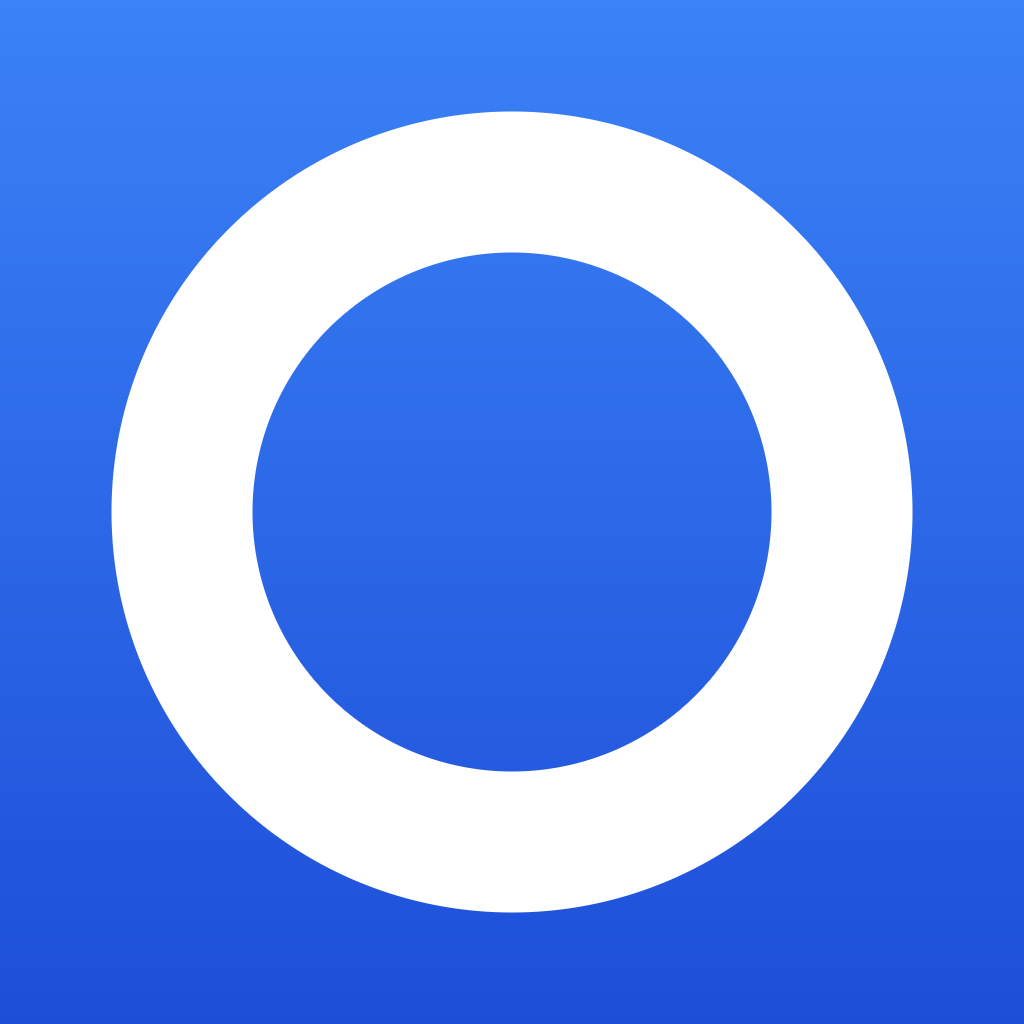
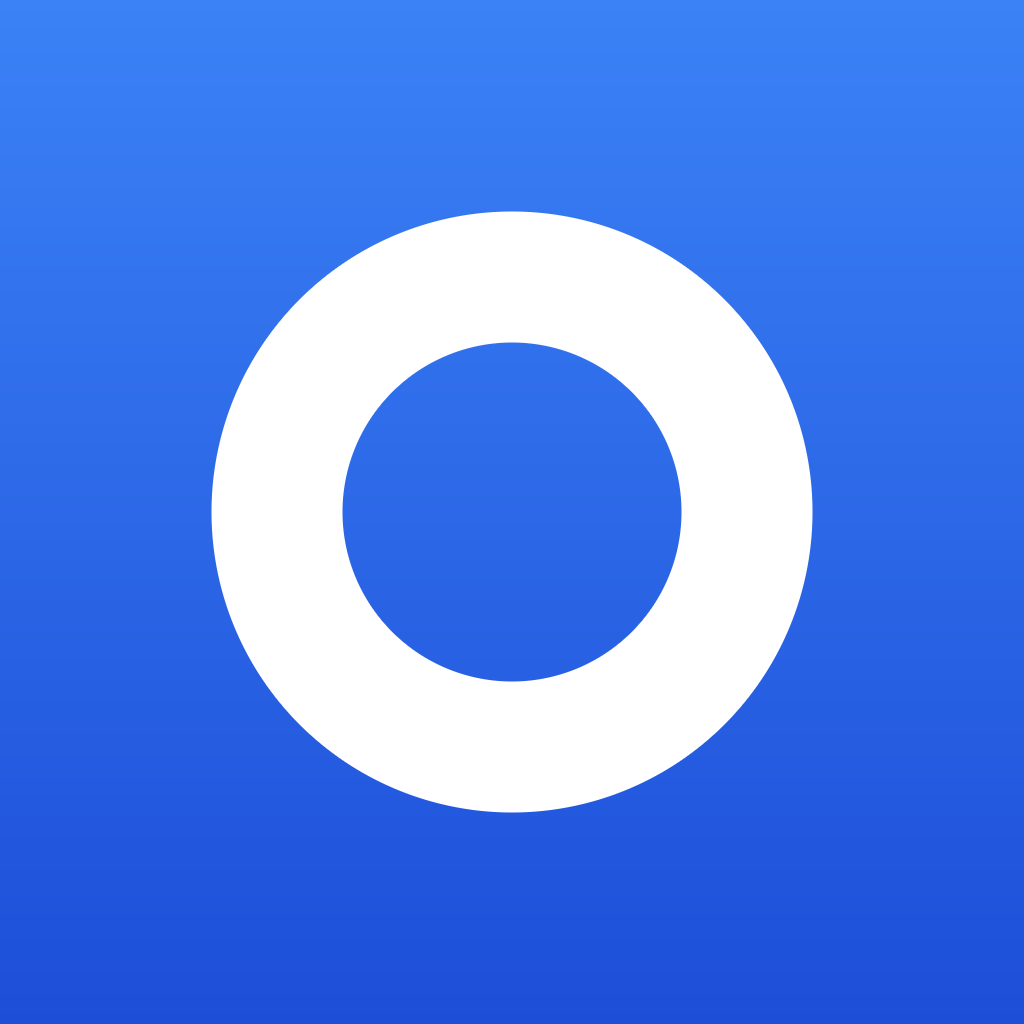
fix(ui): anel do icone com margem segura p/ recorte do launcher e reativa react compiler

diff --git a/scripts/generate-icons.js b/scripts/generate-icons.js
@@ -123,22 +123,22 @@ const white = () => [255, 255, 255];
 const gradientRingColor = (_x, y) => gradAt(y);
 
 const iconPng = gradientBuffer();
-drawRing(iconPng, SIZE / 2, SIZE / 2, 330, 140, white);
+drawRing(iconPng, SIZE / 2, SIZE / 2, 235, 130, white);
 fs.writeFileSync(path.join(outDir, "icon.png"), encodePng(iconPng));
 
 const bgPng = gradientBuffer();
 fs.writeFileSync(path.join(outDir, "android-icon-background.png"), encodePng(bgPng));
 
 const fgPng = transparentBuffer();
-drawRing(fgPng, SIZE / 2, SIZE / 2, 240, 115, white);
+drawRing(fgPng, SIZE / 2, SIZE / 2, 200, 115, white);
 fs.writeFileSync(path.join(outDir, "android-icon-foreground.png"), encodePng(fgPng));
 
 const monoPng = transparentBuffer();
-drawRing(monoPng, SIZE / 2, SIZE / 2, 240, 115, white);
+drawRing(monoPng, SIZE / 2, SIZE / 2, 200, 115, white);
 fs.writeFileSync(path.join(outDir, "android-icon-monochrome.png"), encodePng(monoPng));
 
 const splashPng = transparentBuffer();
-drawRing(splashPng, SIZE / 2, SIZE / 2, 330, 140, gradientRingColor);
+drawRing(splashPng, SIZE / 2, SIZE / 2, 235, 130, gradientRingColor);
 fs.writeFileSync(path.join(outDir, "splash-icon.png"), encodePng(splashPng));
 
 console.log("Ícones gerados em", outDir);
